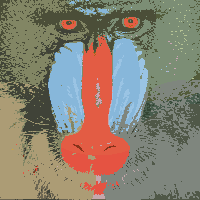
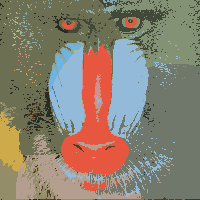
done

diff --git a/Task4/main.py b/Task4/main.py
@@ -49,7 +49,7 @@ class ApplicationWindow(QtWidgets.QMainWindow):
     def regionGrowing(self):
         self.ui.RegionGrowing.show()
         self.seeds = []
-        self.pic = regionGrowing.regionGrow(self.new_image,8)
+        self.pic = regionGrowing.regionGrow(self.new_image,7)
     def chooseSides(self):
 
         self.ui.input1Tab10.mousePressEvent = self.getPos
@@ -68,12 +68,12 @@ class ApplicationWindow(QtWidgets.QMainWindow):
         self.seeds = []
     def chooseOptimalThreshold(self):
         status = str(self.ui.optimalTab9.currentText())
+
         if status == "Global Thresholding":
-            print(self.thImg.shape)
             Th = self.Th_functions[0](self.thImg)
             self.GlobalThresholding(self.thImg, Th)
-        else:
-            print(self.thImg.shape)
+        if status == "Local Thresholding":
+
             self.LocalThresholding(self.thImg, 0)
 
 
@@ -104,7 +104,7 @@ class ApplicationWindow(QtWidgets.QMainWindow):
 
     def getPicrures(self, tab):
         path, _ = QtWidgets.QFileDialog.getOpenFileName(self, "QFileDialog.getOpenFileName()", "")
-        print(path)
+
         if path == "":
             pass
         else:
@@ -115,8 +115,6 @@ class ApplicationWindow(QtWidgets.QMainWindow):
                 self.Image = cv2.imread(path,1)
                 self.new_image = cv2.resize(self.Image,(w, h))
                 self.grayImage = cv2.imread(path,0)
-    
-                # self.ui.input1Tab10.setPixmap(QPixmap(path))
                 rgbImage = cv2.imread(path,cv2.IMREAD_COLOR)
                 cv2.imwrite(".\images\grayImage.png",self.rgb2gray(rgbImage))
                 w1 = self.ui.input2Tab10.width()
@@ -126,13 +124,10 @@ class ApplicationWindow(QtWidgets.QMainWindow):
             if tab == 0:
 
                 img = cv2.imread(path)
-                
                 self.grayThImage = cv2.imread(path,0)
                 self.thImg = np.float32(self.segmentation_resize(img)) *255
-            
                 cv2.imwrite("./images/resizedImage.png",self.thImg)
                 if len(self.thImg.shape) == 3: self.thImg = self.rgb2gray(self.thImg)
-
                 self.ui.inputTab9.setPixmap(QPixmap("./images/resizedImage.png"))
                 self.Path = path
 
@@ -197,13 +192,15 @@ class ApplicationWindow(QtWidgets.QMainWindow):
 
     def ostu(self):
         status = str(self.ui.otsuTab9.currentText())
-        if (status == 'Global Thresholding'):
+        if status == 'Global Thresholding':
             Th = self.Th_functions[1](self.grayThImage)
             self.GlobalThresholding(self.grayThImage,Th)
-        if (status == "Spectral"):
-            self.spectral()
-        else:
+        if status == "Local Thresholding":
             self.LocalThresholding(self.grayThImage, 1)
+
+        if status == "Spectral":
+            self.spectral()
+
     def spectral(self):
         Th = self.Th_functions[1](self.grayThImage)
         blur = self.grayThImage
@@ -214,7 +211,7 @@ class ApplicationWindow(QtWidgets.QMainWindow):
         sel[mask] = image[mask]
         path = "./images/spectralOut.png"
         cv2.imwrite(path, sel)
-        self.ui.globalTab9.setPixmap(QPixmap(path))
+        self.ui.outputTab9.setPixmap(QPixmap(path))
 def main():
     app = QtWidgets.QApplication(sys.argv)
     application = ApplicationWindow()

diff --git a/Task4/ImageView.py b/Task4/ImageView.py
@@ -658,24 +658,15 @@ class Ui_MainWindow(object):
         self.verticalLayout_13.addWidget(self.inputTab9)
         self.horizontalLayout_18 = QtWidgets.QHBoxLayout()
         self.horizontalLayout_18.setObjectName("horizontalLayout_18")
-        self.globalTab9 = QtWidgets.QLabel(self.thresholding)
+        self.outputTab9 = QtWidgets.QLabel(self.thresholding)
         sizePolicy = QtWidgets.QSizePolicy(QtWidgets.QSizePolicy.Expanding, QtWidgets.QSizePolicy.Expanding)
         sizePolicy.setHorizontalStretch(0)
         sizePolicy.setVerticalStretch(0)
-        sizePolicy.setHeightForWidth(self.globalTab9.sizePolicy().hasHeightForWidth())
-        self.globalTab9.setSizePolicy(sizePolicy)
-        self.globalTab9.setFrameShape(QtWidgets.QFrame.Box)
-        self.globalTab9.setObjectName("globalTab9")
-        self.horizontalLayout_18.addWidget(self.globalTab9)
-        self.localTab9 = QtWidgets.QLabel(self.thresholding)
-        sizePolicy = QtWidgets.QSizePolicy(QtWidgets.QSizePolicy.Expanding, QtWidgets.QSizePolicy.Expanding)
-        sizePolicy.setHorizontalStretch(0)
-        sizePolicy.setVerticalStretch(0)
-        sizePolicy.setHeightForWidth(self.localTab9.sizePolicy().hasHeightForWidth())
-        self.localTab9.setSizePolicy(sizePolicy)
-        self.localTab9.setFrameShape(QtWidgets.QFrame.Box)
-        self.localTab9.setObjectName("localTab9")
-        self.horizontalLayout_18.addWidget(self.localTab9)
+        sizePolicy.setHeightForWidth(self.outputTab9.sizePolicy().hasHeightForWidth())
+        self.outputTab9.setSizePolicy(sizePolicy)
+        self.outputTab9.setFrameShape(QtWidgets.QFrame.Box)
+        self.outputTab9.setObjectName("outputTab9")
+        self.horizontalLayout_18.addWidget(self.outputTab9)
         self.verticalLayout_13.addLayout(self.horizontalLayout_18)
         self.horizontalLayout_25.addLayout(self.verticalLayout_13)
         self.selectThresholding = QtWidgets.QGroupBox(self.thresholding)
@@ -957,8 +948,7 @@ class Ui_MainWindow(object):
         self.tabWidget.setTabText(self.tabWidget.indexOf(self.tab_4), _translate("MainWindow", "Template Matching"))
         self.loadTab9.setText(_translate("MainWindow", "LOAD IMAGE"))
         self.inputTab9.setText(_translate("MainWindow", "Input Image"))
-        self.globalTab9.setText(_translate("MainWindow", "Global Thresholding"))
-        self.localTab9.setText(_translate("MainWindow", "Local Thresholding"))
+        self.outputTab9.setText(_translate("MainWindow", "Global Thresholding"))
         self.selectThresholding.setTitle(_translate("MainWindow", "Select Thresholding"))
         self.otsuTab9.setItemText(0, _translate("MainWindow", "Otsu"))
         self.otsuTab9.setItemText(1, _translate("MainWindow", "Global Thresholding"))

diff --git a/Task4/Kmeans.py b/Task4/Kmeans.py
@@ -100,12 +100,12 @@ class Kmeans:
         
     def Kmeans_Color(self,Image):
         rows,columns = Image.shape[:2]
-        r_points = [ random.randint(0, 255) for i in range(6) ]
-        g_points = [ random.randint(0, 255) for i in range(6) ]
-        b_points = [ random.randint(0, 255) for i in range(6) ]
+        r_points = [ random.randint(0, 255) for i in range(3) ]
+        g_points = [ random.randint(0, 255) for i in range(3) ]
+        b_points = [ random.randint(0, 255) for i in range(3) ]
         end = np.zeros((rows,columns,3))
-     
-        for it in range(0,10):    
+        labels = np.zeros((rows,columns,3))
+        for it in range(0,30):    
             g = defaultdict(list)
             for r in range(rows):
                 for c in range(columns):
@@ -114,18 +114,18 @@ class Kmeans:
                    
                     distance_list = []
 
-                    for k in range(0,6):
+                    for k in range(0,3):
                         distance = math.sqrt(((int(r_points[k])- red)**2)+((int(g_points[k]) - green)**2)+((int(b_points[k])-blue)**2))
                         distance_list.append(distance)
 
                     index, value = min(enumerate(distance_list), key=operator.itemgetter(1))
                     color = self.grey_l[index]
-                    end[r][c] = 0.5*color , 0.65*color , 0.45*color
-
+                    end[r][c] = r_points[index],b_points[index],g_points[index]
+                    
                     g[index].append([red,blue,green])
 
             r_points , b_points , g_points = self.find_centroids_RGB(g)
-            return(end)
+        return(end)
        
     def convertColorIntoGray(self,output):
         rows,columns = output.shape[:2]
